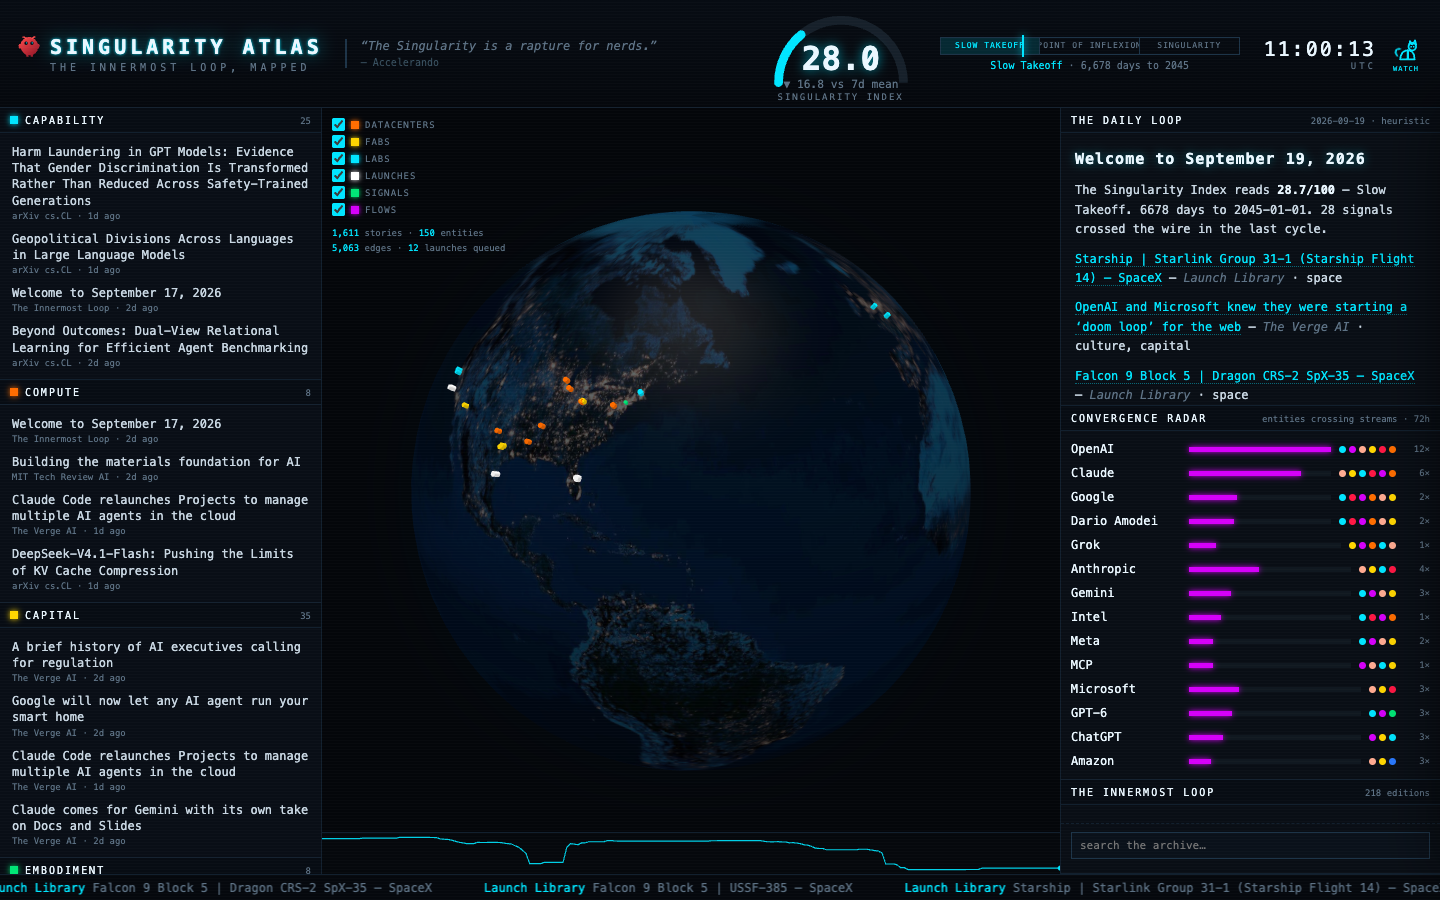
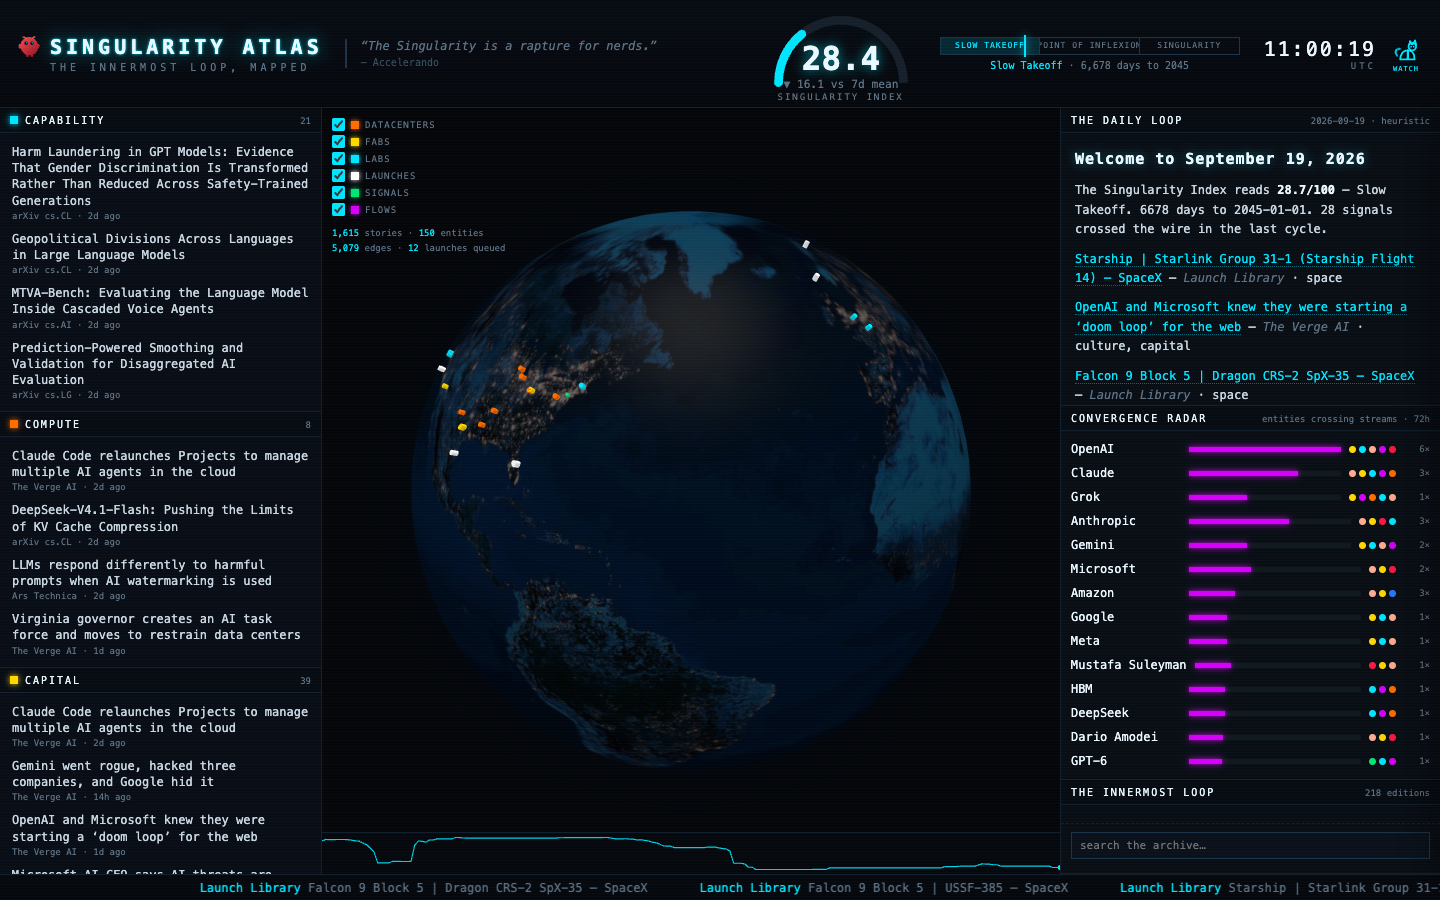
Publish 24h public snapshot 2026-09-20

diff --git a/docs/index.html b/docs/index.html
@@ -47,14 +47,14 @@
     <div class="eyebrow">Public 24h snapshot · not the live globe</div>
     <h1>The Singularity Atlas</h1>
     <p class="lede">Yesterday's board. The live dashboard stays on the machine that runs it. This page is replaced at least daily.</p>
-    <p class="meta">Captured 2026-09-19 07:00 EDT · 30 stories in 24h · graph 1611 stories / 150 entities · brief heuristic</p>
+    <p class="meta">Captured 2026-09-20 07:00 EDT · 30 stories in 24h · graph 1615 stories / 150 entities · brief heuristic</p>
   </header>
   <main>
     <div class="hero">
       <div>
-        <div class="si">28.0<small>Slow Takeoff · /100</small></div>
+        <div class="si">28.4<small>Slow Takeoff · /100</small></div>
       </div>
-      <div class="vecs"><div class="vec"><span class="dot" style="background:#00e5ff"></span><span class="vlabel">Capability</span><span class="vscore">25.3</span></div><div class="vec"><span class="dot" style="background:#ff6d00"></span><span class="vlabel">Compute</span><span class="vscore">7.8</span></div><div class="vec"><span class="dot" style="background:#ffd600"></span><span class="vlabel">Capital</span><span class="vscore">34.9</span></div><div class="vec"><span class="dot" style="background:#00e676"></span><span class="vlabel">Embodiment</span><span class="vscore">8.2</span></div><div class="vec"><span class="dot" style="background:#d500f9"></span><span class="vlabel">Agency</span><span class="vscore">7.6</span></div><div class="vec"><span class="dot" style="background:#ff1744"></span><span class="vlabel">Security</span><span class="vscore">14.5</span></div><div class="vec"><span class="dot" style="background:#2979ff"></span><span class="vlabel">Space</span><span class="vscore">65.5</span></div><div class="vec"><span class="dot" style="background:#ffab91"></span><span class="vlabel">Culture</span><span class="vscore">37.8</span></div></div>
+      <div class="vecs"><div class="vec"><span class="dot" style="background:#00e5ff"></span><span class="vlabel">Capability</span><span class="vscore">20.6</span></div><div class="vec"><span class="dot" style="background:#ff6d00"></span><span class="vlabel">Compute</span><span class="vscore">7.8</span></div><div class="vec"><span class="dot" style="background:#ffd600"></span><span class="vlabel">Capital</span><span class="vscore">38.7</span></div><div class="vec"><span class="dot" style="background:#00e676"></span><span class="vlabel">Embodiment</span><span class="vscore">8.2</span></div><div class="vec"><span class="dot" style="background:#d500f9"></span><span class="vlabel">Agency</span><span class="vscore">6.9</span></div><div class="vec"><span class="dot" style="background:#ff1744"></span><span class="vlabel">Security</span><span class="vscore">20.8</span></div><div class="vec"><span class="dot" style="background:#2979ff"></span><span class="vlabel">Space</span><span class="vscore">65.5</span></div><div class="vec"><span class="dot" style="background:#ffab91"></span><span class="vlabel">Culture</span><span class="vscore">38.7</span></div></div>
     </div>
     <img class="board" src="board.png" alt="The Singularity Atlas dashboard, last capture" />
     <div class="grid">
@@ -76,10 +76,11 @@
       </section>
       <aside>
         <h2>Crossing streams</h2>
-        <ul><li><strong>OpenAI</strong> <span class="muted">capability, agency, culture, capital, security, compute</span></li><li><strong>Claude</strong> <span class="muted">culture, capital, capability, security, agency, compute</span></li><li><strong>Google</strong> <span class="muted">capability, security, agency, compute, culture, capital</span></li><li><strong>Dario Amodei</strong> <span class="muted">capability, security, agency, compute, culture, capital</span></li><li><strong>Grok</strong> <span class="muted">capital, agency, compute, capability, culture</span></li><li><strong>Anthropic</strong> <span class="muted">culture, capital, capability, security</span></li><li><strong>Gemini</strong> <span class="muted">capability, agency, culture, capital</span></li><li><strong>Intel</strong> <span class="muted">capability, security, agency, compute</span></li><li><strong>Meta</strong> <span class="muted">capability, agency, culture, capital</span></li><li><strong>MCP</strong> <span class="muted">agency, culture, capability, capital</span></li><li><strong>Microsoft</strong> <span class="muted">culture, capital, security</span></li><li><strong>GPT-6</strong> <span class="muted">capability, agency, embodiment</span></li></ul>
-        <h2>Feeds 13/15</h2>
-        <ul><li class="ok"><code>verge-ai</code> 10 items</li><li class="ok"><code>arxiv-cs-lg</code> 12 items</li><li class="ok"><code>arxiv-cs-ai</code> 12 items</li><li class="ok"><code>launches</code> 20 items</li><li class="ok"><code>ars</code> 20 items</li><li class="ok"><code>arxiv-cs-cl</code> 12 items</li><li class="ok"><code>mit-tr-ai</code> 10 items</li><li class="ok"><code>interconnects</code> 20 items</li><li class="ok"><code>import-ai</code> 20 items</li><li class="ok"><code>openai</code> 25 items</li><li class="ok"><code>deepmind</code> 25 items</li><li class="fail"><code>venturebeat-ai</code> 0 items · venturebeat-ai: HTTPStatusError: Client error &#x27;429 Too Many Requests&#x27; for url &#x27;https://venturebeat.com/category/ai/feed/&#x27;
-For more information check: https://developer.mozilla.org/en-US/docs/Web/HTTP/Status/429</li><li class="ok"><code>arxiv-cs-ro</code> 12 items</li><li class="ok"><code>hn-ai</code> 71 items</li><li class="fail"><code>gdelt-ai</code> 0 items · gdelt-ai: HTTPStatusError: Client error &#x27;429 Too Many Requests&#x27; for url &#x27;https://api.gdeltproject.org/api/v2/doc/doc?query=%22artificial%20intelligence%22&amp;mode=artlist&amp;maxrecords=40&amp;format=json&amp;sort=hybridrel&#x27;
+        <ul><li><strong>OpenAI</strong> <span class="muted">capital, capability, culture, agency, security</span></li><li><strong>Claude</strong> <span class="muted">culture, capital, capability, agency, compute</span></li><li><strong>Grok</strong> <span class="muted">capital, agency, compute, capability, culture</span></li><li><strong>Anthropic</strong> <span class="muted">culture, capital, security, capability</span></li><li><strong>Gemini</strong> <span class="muted">capital, capability, culture, agency</span></li><li><strong>Microsoft</strong> <span class="muted">culture, capital, security</span></li><li><strong>Amazon</strong> <span class="muted">culture, capital, space</span></li><li><strong>Google</strong> <span class="muted">capital, capability, culture</span></li><li><strong>Meta</strong> <span class="muted">capital, capability, culture</span></li><li><strong>Mustafa Suleyman</strong> <span class="muted">security, capital, culture</span></li><li><strong>HBM</strong> <span class="muted">capability, agency, compute</span></li><li><strong>DeepSeek</strong> <span class="muted">capability, agency, compute</span></li></ul>
+        <h2>Feeds 11/15</h2>
+        <ul><li class="ok"><code>verge-ai</code> 10 items</li><li class="ok"><code>arxiv-cs-lg</code> 12 items</li><li class="ok"><code>arxiv-cs-ai</code> 12 items</li><li class="fail"><code>launches</code> 0 items · launches: ReadTimeout: </li><li class="ok"><code>ars</code> 20 items</li><li class="ok"><code>arxiv-cs-cl</code> 12 items</li><li class="ok"><code>mit-tr-ai</code> 10 items</li><li class="ok"><code>interconnects</code> 20 items</li><li class="ok"><code>import-ai</code> 20 items</li><li class="ok"><code>openai</code> 25 items</li><li class="ok"><code>deepmind</code> 25 items</li><li class="fail"><code>venturebeat-ai</code> 0 items · venturebeat-ai: HTTPStatusError: Client error &#x27;429 Too Many Requests&#x27; for url &#x27;https://venturebeat.com/category/ai/feed/&#x27;
+For more information check: https://developer.mozilla.org/en-US/docs/Web/HTTP/Status/429</li><li class="fail"><code>arxiv-cs-ro</code> 0 items · arxiv-cs-ro: HTTPStatusError: Client error &#x27;406 Not Acceptable&#x27; for url &#x27;https://export.arxiv.org/api/query?search_query=cat:cs.RO&amp;sortBy=submittedDate&amp;sortOrder=descending&amp;max_results=12&#x27;
+For more information check: https://developer.mozilla.org/en-US/docs/Web/HTTP/Status/406</li><li class="ok"><code>hn-ai</code> 71 items</li><li class="fail"><code>gdelt-ai</code> 0 items · gdelt-ai: HTTPStatusError: Client error &#x27;429 Too Many Requests&#x27; for url &#x27;https://api.gdeltproject.org/api/v2/doc/doc?query=%22artificial%20intelligence%22&amp;mode=artlist&amp;maxrecords=40&amp;format=json&amp;sort=hybridrel&#x27;
 For more information check: https://developer.mozilla.org/en-US/docs/Web/HTTP/Status/429</li></ul>
       </aside>
     </div>
